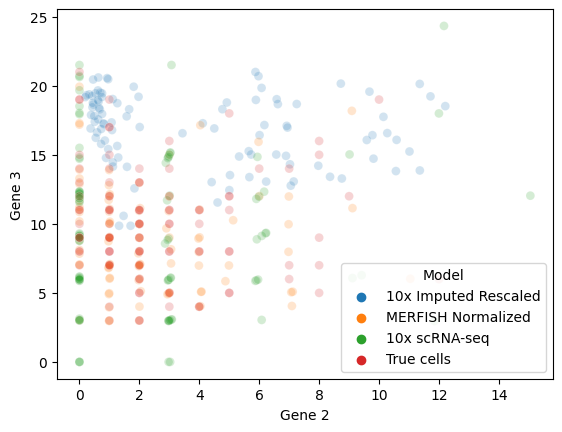
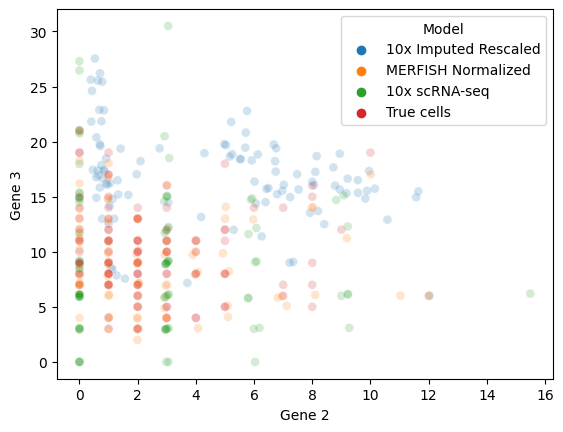
deploy: 69bd616c6c8951e3a58e1448ce6b215aed05c0b5

diff --git a/searchindex.js b/searchindex.js
@@ -1,1 +1,1 @@
-Search.setIndex({docnames:["content","intro","markdown","notebooks"],envversion:{"sphinx.domains.c":2,"sphinx.domains.changeset":1,"sphinx.domains.citation":1,"sphinx.domains.cpp":5,"sphinx.domains.index":1,"sphinx.domains.javascript":2,"sphinx.domains.math":2,"sphinx.domains.python":3,"sphinx.domains.rst":2,"sphinx.domains.std":2,"sphinx.ext.intersphinx":1,"sphinxcontrib.bibtex":9,sphinx:56},filenames:["content.md","intro.md","markdown.md","notebooks.ipynb"],objects:{},objnames:{},objtypes:{},terms:{"0":3,"0s":3,"10":3,"100":3,"1000":3,"10000":3,"1002":3,"10138":3,"1031":3,"10366":3,"104":3,"1056":3,"108":3,"110":3,"116":3,"118":3,"119":3,"121":3,"123":3,"13":3,"133":3,"14":3,"17":3,"1738":3,"18":3,"19":3,"2":1,"2014":2,"21":3,"23":3,"25":3,"257":3,"2574":3,"262":3,"267":3,"2673":3,"2685":3,"2726":3,"2742":3,"278":3,"28":3,"285":3,"2861":3,"29":3,"290":3,"2935":3,"295":3,"296":3,"2970":3,"2974":3,"2982":3,"2987":3,"2998":3,"30":3,"300":3,"3000":3,"3025":3,"3062":3,"307":3,"3073":3,"310":3,"315":3,"32":3,"320":3,"33":3,"37":3,"38":3,"4":3,"40":3,"5":3,"6":3,"7":3,"72":3,"79":3,"792":3,"8":3,"81":3,"85":3,"861":3,"868":3,"869":3,"8921":3,"8969":3,"8970":3,"9":3,"90":3,"900":3,"9098":3,"910":3,"925":3,"9284":3,"933":3,"940":3,"95":3,"954":3,"983":3,"99":3,"9927":3,"9959":3,"9983":3,"case":3,"default":[2,3],"do":[0,2],"function":[2,3],"import":3,"int":3,"new":3,"return":3,"short":0,"true":3,And:1,At:2,For:2,If:2,In:2,It:2,The:2,Then:3,There:[0,2],_:3,abl:3,about:[2,3],accept:2,add:2,after_imput:3,again:2,all:2,all_gen:3,allow:2,alpha:3,alreadi:2,also:[2,3],an:3,analysi:3,ani:2,anndata:3,anoth:[2,3],appear:3,applymap:3,approach:3,ar:[0,3],artificially_sample_cel:3,associ:2,attempt:3,auditori:2,australia:2,axi:3,back:3,basi:3,becom:3,befor:3,before_imput:3,being:[2,3],bernoulli:3,besid:3,bib:2,bibliographi:2,bibtex:2,binomi:3,block:[1,2],blog:3,book:2,both:2,bound:3,box:2,brian:2,brisban:2,broad:3,build:2,built:2,bundl:1,call:2,can:[2,3],captur:3,capture_r:3,cell:2,cell_gener:3,check:1,choic:3,christoph:2,cite:2,claim:3,close:3,code:1,cognit:2,column:3,come:3,command:2,commonmark:2,compar:3,complex:2,comput:2,concat:3,confer:2,content:[1,2],copi:3,cortex:2,could:3,cover:0,creat:3,create_synthetic_cel:3,current:3,d:2,datafram:3,de:2,def:3,defin:2,denois:3,depend:2,despit:3,determin:3,develop:3,df:3,differ:[2,3],directli:2,discov:3,displai:2,dist:3,distribut:3,divid:3,doc:2,document:2,doesn:2,downstream:3,drop:3,dropout:3,due:3,duplic:3,e:1,each:3,ecosystem:2,effect:3,els:3,entir:2,errerron:3,evid:2,exact:3,exampl:2,exist:2,extens:2,extern:3,f:3,fail:3,fals:3,feel:1,few:0,figur:3,fill:3,first:2,flavor:2,fluoresc:3,follow:2,fraction:3,from:3,frontier:2,g:3,gene:3,give:1,given:3,goal:3,ground:3,ha:[2,3],hdhpk14:2,head:3,heer:2,help:3,here:[1,2,3],high:3,hold:3,holdgraf:2,holdgraf_evidence_2014:2,how:[0,1],hue:3,human:2,i:3,identifi:3,ignore_index:3,improv:3,imputed_df:3,imputed_resc:3,imputed_rescaled_df:3,includ:[2,3],indic:3,inform:[2,3],init:2,inplac:3,input:[2,3],insert:2,insid:2,institut:3,intern:2,intro:2,ipynb:2,its:[2,3],jupyt:2,jupytext:2,kdeplot:3,kernel:2,kind:2,knight:2,krishnaswami:3,lab:3,lambda:3,languag:2,later:3,len:3,less:2,like:2,limit:3,line:2,list:3,ll:2,look:2,lost:3,lower:3,m100:3,m100_new:3,m99:3,m99_new:3,mani:[0,2],markedli:2,markup:2,matplotlib:3,max:3,max_ratio:3,mc:1,md:2,meanwhil:3,measur:3,median:3,merfish_df:3,merfish_original_synth:3,merfish_repr:3,merfish_rna_count:3,metadata:2,method:3,metric:3,model:3,molecul:3,more:[1,2,3],moreov:2,mortem:3,most:2,mrna:3,much:3,multipli:3,must:2,my:2,mydirectivenam:2,n:[2,3],n_job:3,name:2,name_list:3,nb:2,nbinom:3,necessari:3,neg:3,neurosci:2,normalize_tot:3,normalized_sum:3,note:[1,2],notebook:2,np:3,number:3,number_cel:3,numpi:3,obscur:3,observ:3,observerd:3,obtain:3,older:3,onc:2,one:2,onli:[2,3],order:3,our:3,out:1,output:[2,3],p:3,page:[1,2],panda:3,paramet:3,paslei:2,path:2,pattern:2,pd:3,percentil:3,perform:3,pipelin:3,plt:3,popular:3,post:3,potenti:3,power:2,pp:3,pre:[2,3],predict:2,previous:3,print:2,probabl:3,process:3,profil:3,promis:3,properli:2,purpos:2,pyplot:3,ramsai:2,random:3,rang:3,rate:3,re:3,ready_for_plot:3,receiv:3,recuper:3,refer:2,regular:2,rel:2,relationship:3,render:2,repres:3,rescale_data:3,resembl:3,rest:2,result:2,rna:3,rna_species_char:3,rna_species_characteristic_numb:3,robert:2,rolenam:2,root:3,row:3,run:2,rv:3,rv_continu:3,rv_discret:3,s:[2,3],same:2,sampl:[1,3],sc:3,scanpi:3,scatterplot:3,sce:3,scipi:3,scnra:3,seaborn:3,section:0,see:[1,2,3],seed:3,sequenc:3,serv:[2,3],set:3,set_axi:3,shape:3,sim_captur:3,similar:[2,3],simpl:3,simplest:2,singl:3,size:3,slight:2,small:[1,2],sn:3,so:[0,2],solver:3,some:2,span:2,speci:3,specif:2,spectrum:3,sphinx:2,sqrt:3,squar:3,stand:2,stat:3,step:3,still:3,store:2,structur:[1,2],success:3,successfulli:3,sum:3,support:3,syntax:2,synth_cel:3,t:[2,3],target:3,target_data:3,target_sum:3,tenx_norm:3,tenx_norm_df:3,tenx_original_synth:3,tenx_raw:3,tenx_repr:3,tenx_rescaled_norm:3,test:3,text:2,thei:[2,3],thi:[0,1,2,3],think:3,those:2,thu:3,tile:3,time:2,tip:0,tissu:3,to_df:3,tool:[2,3],transcript:3,transform:3,true_cells_df:3,truth:3,two:[2,3],univers:3,us:3,util:3,valid:2,valu:3,variat:2,veri:2,version:3,vestigi:3,visual:3,wai:0,we:3,weight:3,welcom:2,wendi:2,when:2,where:3,wherea:2,whether:[2,3],which:[2,3],within:3,without:3,work:2,write:[0,2,3],written:2,x:3,y:3,you:[1,2],your:3},titles:["Content in Jupyter Book","Welcome to your Jupyter Book","Markdown Files","Evaluating MAGIC with Synthetic Dataset"],titleterms:{"1":3,"10x":3,"2":3,"3":3,ad:2,after:3,ar:2,book:[0,1],both:3,cell:3,citat:2,code:2,content:0,count:3,data:3,dataset:3,direct:2,evalu:3,execut:2,file:2,gener:3,imput:3,intro:3,jupyt:[0,1],magic:3,markdown:2,merfish:3,myst:2,normal:3,peek:3,plot:3,rescal:3,result:3,role:2,run:3,scrna:3,seq:3,simul:3,synthet:3,us:2,welcom:1,what:2,your:[1,2]}})
+Search.setIndex({docnames:["content","intro","markdown","notebooks"],envversion:{"sphinx.domains.c":2,"sphinx.domains.changeset":1,"sphinx.domains.citation":1,"sphinx.domains.cpp":5,"sphinx.domains.index":1,"sphinx.domains.javascript":2,"sphinx.domains.math":2,"sphinx.domains.python":3,"sphinx.domains.rst":2,"sphinx.domains.std":2,"sphinx.ext.intersphinx":1,"sphinxcontrib.bibtex":9,sphinx:56},filenames:["content.md","intro.md","markdown.md","notebooks.ipynb"],objects:{},objnames:{},objtypes:{},terms:{"0":3,"0s":3,"10":3,"100":3,"1000":3,"10000":3,"1002":3,"10138":3,"1031":3,"10366":3,"104":3,"1056":3,"115":3,"116":3,"118":3,"121":3,"133":3,"15":3,"17":3,"1738":3,"18":3,"2":1,"2014":2,"21":3,"25":3,"2553":3,"256":3,"26":3,"260":3,"2653":3,"267":3,"2689":3,"2699":3,"27":3,"2776":3,"278":3,"284":3,"2861":3,"29":3,"290":3,"295":3,"296":3,"2963":3,"297":3,"2970":3,"2982":3,"2987":3,"30":3,"300":3,"3000":3,"302":3,"3027":3,"3036":3,"3054":3,"3073":3,"308":3,"3134":3,"32":3,"320":3,"331":3,"35":3,"4":3,"40":3,"43":3,"44":3,"5":3,"6":3,"7":3,"70":3,"76":3,"8":3,"81":3,"840":3,"85":3,"852":3,"86":3,"891":3,"8914":3,"8923":3,"8987":3,"899":3,"9":3,"90":3,"903":3,"911":3,"917":3,"918":3,"9188":3,"9325":3,"940":3,"945":3,"96":3,"963":3,"983":3,"99":3,"9927":3,"9959":3,"9983":3,"case":3,"default":[2,3],"do":[0,2],"function":[2,3],"import":3,"int":3,"new":3,"return":3,"short":0,"true":3,And:1,At:2,For:2,If:2,In:2,It:2,The:2,Then:3,There:[0,2],_:3,abl:3,about:[2,3],accept:2,add:2,after_imput:3,again:2,all:2,all_gen:3,allow:2,alpha:3,alreadi:2,also:[2,3],an:3,analysi:3,ani:2,anndata:3,anoth:[2,3],appear:3,applymap:3,approach:3,ar:[0,3],artificially_sample_cel:3,associ:2,attempt:3,auditori:2,australia:2,axi:3,back:3,basi:3,becom:3,befor:3,before_imput:3,being:[2,3],bernoulli:3,besid:3,bib:2,bibliographi:2,bibtex:2,binomi:3,block:[1,2],blog:3,book:2,both:2,bound:3,box:2,brian:2,brisban:2,broad:3,build:2,built:2,bundl:1,call:2,can:[2,3],captur:3,capture_r:3,cell:2,cell_gener:3,check:1,choic:3,christoph:2,cite:2,claim:3,close:3,code:1,cognit:2,column:3,come:3,command:2,commonmark:2,compar:3,complex:2,comput:2,concat:3,confer:2,content:[1,2],copi:3,cortex:2,could:3,cover:0,creat:3,create_synthetic_cel:3,current:3,d:2,datafram:3,de:2,def:3,defin:2,denois:3,depend:2,despit:3,determin:3,develop:3,df:3,differ:[2,3],directli:2,discov:3,displai:2,dist:3,distribut:3,divid:3,doc:2,document:2,doesn:2,downstream:3,drop:3,dropout:3,due:3,duplic:3,e:1,each:3,ecosystem:2,effect:3,els:3,entir:2,errerron:3,evid:2,exact:3,exampl:2,exist:2,extens:2,extern:3,f:3,fail:3,fals:3,feel:1,few:0,figur:3,fill:3,first:2,flavor:2,fluoresc:3,follow:2,fraction:3,from:3,frontier:2,g:3,gene:3,give:1,given:3,goal:3,ground:3,ha:[2,3],hdhpk14:2,head:3,heer:2,help:3,here:[1,2,3],high:3,hold:3,holdgraf:2,holdgraf_evidence_2014:2,how:[0,1],hue:3,human:2,i:3,identifi:3,ignore_index:3,improv:3,imputed_df:3,imputed_resc:3,imputed_rescaled_df:3,includ:[2,3],indic:3,inform:[2,3],init:2,inplac:3,input:[2,3],insert:2,insid:2,institut:3,intern:2,intro:2,ipynb:2,its:[2,3],jupyt:2,jupytext:2,kdeplot:3,kernel:2,kind:2,knight:2,krishnaswami:3,lab:3,lambda:3,languag:2,later:3,len:3,less:2,like:2,limit:3,line:2,list:3,ll:2,look:2,lost:3,lower:3,m100:3,m100_new:3,m99:3,m99_new:3,mani:[0,2],markedli:2,markup:2,matplotlib:3,max:3,max_ratio:3,mc:1,md:2,meanwhil:3,measur:3,median:3,merfish_df:3,merfish_original_synth:3,merfish_repr:3,merfish_rna_count:3,metadata:2,method:3,metric:3,model:3,molecul:3,more:[1,2,3],moreov:2,mortem:3,most:2,mrna:3,much:3,multipli:3,must:2,my:2,mydirectivenam:2,n:[2,3],n_job:3,name:2,name_list:3,nb:2,nbinom:3,necessari:3,neg:3,neurosci:2,normalize_tot:3,normalized_sum:3,note:[1,2],notebook:2,np:3,number:3,number_cel:3,numpi:3,obscur:3,observ:3,observerd:3,obtain:3,older:3,onc:2,one:2,onli:[2,3],order:3,our:3,out:1,output:[2,3],p:3,page:[1,2],panda:3,paramet:3,paslei:2,path:2,pattern:2,pd:3,percentil:3,perform:3,pipelin:3,plt:3,popular:3,post:3,potenti:3,power:2,pp:3,pre:[2,3],predict:2,previous:3,print:2,probabl:3,process:3,profil:3,promis:3,properli:2,purpos:2,pyplot:3,ramsai:2,random:3,rang:3,rate:3,re:3,ready_for_plot:3,receiv:3,recuper:3,refer:2,regular:2,rel:2,relationship:3,render:2,repres:3,rescale_data:3,resembl:3,rest:2,result:2,rna:3,rna_species_char:3,rna_species_characteristic_numb:3,robert:2,rolenam:2,root:3,row:3,run:2,rv:3,rv_continu:3,rv_discret:3,s:[2,3],same:2,sampl:[1,3],sc:3,scanpi:3,scatterplot:3,sce:3,scipi:3,scnra:3,seaborn:3,section:0,see:[1,2,3],seed:3,sequenc:3,serv:[2,3],set:3,set_axi:3,shape:3,sim_captur:3,similar:[2,3],simpl:3,simplest:2,singl:3,size:3,slight:2,small:[1,2],sn:3,so:[0,2],solver:3,some:2,span:2,speci:3,specif:2,spectrum:3,sphinx:2,sqrt:3,squar:3,stand:2,stat:3,step:3,still:3,store:2,structur:[1,2],success:3,successfulli:3,sum:3,support:3,syntax:2,synth_cel:3,t:[2,3],target:3,target_data:3,target_sum:3,tenx_norm:3,tenx_norm_df:3,tenx_original_synth:3,tenx_raw:3,tenx_repr:3,tenx_rescaled_norm:3,test:3,text:2,thei:[2,3],thi:[0,1,2,3],think:3,those:2,thu:3,tile:3,time:2,tip:0,tissu:3,to_df:3,tool:[2,3],transcript:3,transform:3,true_cells_df:3,truth:3,two:[2,3],univers:3,us:3,util:3,valid:2,valu:3,variat:2,veri:2,version:3,vestigi:3,visual:3,wai:0,we:3,weight:3,welcom:2,wendi:2,when:2,where:3,wherea:2,whether:[2,3],which:[2,3],within:3,without:3,work:2,write:[0,2,3],written:2,x:3,y:3,you:[1,2],your:3},titles:["Content in Jupyter Book","Welcome to your Jupyter Book","Markdown Files","Evaluating MAGIC with Synthetic Dataset"],titleterms:{"1":3,"10x":3,"2":3,"3":3,ad:2,after:3,ar:2,book:[0,1],both:3,cell:3,citat:2,code:2,content:0,count:3,data:3,dataset:3,direct:2,evalu:3,execut:2,file:2,gener:3,imput:3,intro:3,jupyt:[0,1],magic:3,markdown:2,merfish:3,myst:2,normal:3,peek:3,plot:3,rescal:3,result:3,role:2,run:3,scrna:3,seq:3,simul:3,synthet:3,us:2,welcom:1,what:2,your:[1,2]}})

diff --git a/notebooks.html b/notebooks.html
@@ -6,7 +6,7 @@
     <meta charset="utf-8" />
     <meta name="viewport" content="width=device-width, initial-scale=1.0" /><meta name="generator" content="Docutils 0.17.1: http://docutils.sourceforge.net/" />
 
-    <title>Evaluating MAGIC with Synthetic Dataset &#8212; blog</title>
+    <title>Evaluating MAGIC with Synthetic Dataset &#8212; Academic Posts</title>
     
   <!-- Loaded before other Sphinx assets -->
   <link href="_static/styles/theme.css?digest=1999514e3f237ded88cf" rel="stylesheet">
@@ -96,7 +96,7 @@ const thebe_selector_output = ".output, .cell_output"
       <img src="_static/logo.png" class="logo" alt="logo">
       
       
-      <h1 class="site-logo" id="site-title">blog</h1>
+      <h1 class="site-logo" id="site-title">Academic Posts</h1>
       
     </a>
 </div><form class="bd-search d-flex align-items-center" action="search.html" method="get">
@@ -782,13 +782,13 @@ tenx_original_synth[&quot;Model&quot;] = &quot;10x scRNA-seq&quot;
       <th>0</th>
       <td>1</td>
       <td>3</td>
-      <td>5</td>
-      <td>23</td>
-      <td>108</td>
-      <td>267</td>
-      <td>861</td>
-      <td>2726</td>
-      <td>9098</td>
+      <td>7</td>
+      <td>26</td>
+      <td>104</td>
+      <td>260</td>
+      <td>852</td>
+      <td>2699</td>
+      <td>9188</td>
       <td>MERFISH</td>
     </tr>
     <tr>
@@ -796,25 +796,25 @@ tenx_original_synth[&quot;Model&quot;] = &quot;10x scRNA-seq&quot;
       <td>2</td>
       <td>3</td>
       <td>5</td>
-      <td>19</td>
+      <td>21</td>
       <td>104</td>
-      <td>262</td>
-      <td>910</td>
-      <td>2673</td>
-      <td>9284</td>
+      <td>267</td>
+      <td>911</td>
+      <td>2689</td>
+      <td>9325</td>
       <td>MERFISH</td>
     </tr>
     <tr>
       <th>2</th>
-      <td>6</td>
+      <td>7</td>
       <td>1</td>
-      <td>14</td>
-      <td>18</td>
-      <td>119</td>
-      <td>290</td>
-      <td>925</td>
-      <td>2742</td>
-      <td>8970</td>
+      <td>15</td>
+      <td>15</td>
+      <td>115</td>
+      <td>297</td>
+      <td>918</td>
+      <td>2776</td>
+      <td>8987</td>
       <td>MERFISH</td>
     </tr>
     <tr>
@@ -822,25 +822,25 @@ tenx_original_synth[&quot;Model&quot;] = &quot;10x scRNA-seq&quot;
       <td>0</td>
       <td>2</td>
       <td>7</td>
-      <td>28</td>
-      <td>110</td>
-      <td>290</td>
-      <td>900</td>
-      <td>2574</td>
-      <td>8921</td>
+      <td>29</td>
+      <td>99</td>
+      <td>278</td>
+      <td>891</td>
+      <td>2553</td>
+      <td>8914</td>
       <td>MERFISH</td>
     </tr>
     <tr>
       <th>4</th>
       <td>6</td>
-      <td>2</td>
+      <td>1</td>
       <td>7</td>
-      <td>25</td>
-      <td>79</td>
-      <td>257</td>
-      <td>954</td>
-      <td>2685</td>
-      <td>8969</td>
+      <td>27</td>
+      <td>76</td>
+      <td>256</td>
+      <td>963</td>
+      <td>2653</td>
+      <td>8923</td>
       <td>MERFISH</td>
     </tr>
   </tbody>
@@ -892,65 +892,65 @@ tenx_original_synth[&quot;Model&quot;] = &quot;10x scRNA-seq&quot;
       <th>0</th>
       <td>0</td>
       <td>1</td>
-      <td>2</td>
+      <td>3</td>
       <td>6</td>
-      <td>33</td>
-      <td>72</td>
-      <td>278</td>
-      <td>933</td>
-      <td>3025</td>
+      <td>44</td>
+      <td>70</td>
+      <td>302</td>
+      <td>945</td>
+      <td>3036</td>
       <td>10x scRNA-seq</td>
     </tr>
     <tr>
       <th>1</th>
+      <td>0</td>
       <td>1</td>
-      <td>1</td>
-      <td>1</td>
-      <td>8</td>
-      <td>38</td>
-      <td>81</td>
-      <td>307</td>
-      <td>868</td>
-      <td>3062</td>
+      <td>2</td>
+      <td>2</td>
+      <td>35</td>
+      <td>86</td>
+      <td>295</td>
+      <td>899</td>
+      <td>3134</td>
       <td>10x scRNA-seq</td>
     </tr>
     <tr>
       <th>2</th>
-      <td>2</td>
-      <td>0</td>
-      <td>7</td>
+      <td>4</td>
+      <td>1</td>
       <td>5</td>
-      <td>33</td>
-      <td>95</td>
-      <td>315</td>
-      <td>933</td>
-      <td>2998</td>
+      <td>5</td>
+      <td>43</td>
+      <td>96</td>
+      <td>331</td>
+      <td>917</td>
+      <td>3054</td>
       <td>10x scRNA-seq</td>
     </tr>
     <tr>
       <th>3</th>
       <td>0</td>
-      <td>2</td>
+      <td>1</td>
       <td>3</td>
-      <td>6</td>
-      <td>37</td>
-      <td>123</td>
-      <td>285</td>
-      <td>792</td>
-      <td>2935</td>
+      <td>8</td>
+      <td>40</td>
+      <td>100</td>
+      <td>284</td>
+      <td>840</td>
+      <td>2963</td>
       <td>10x scRNA-seq</td>
     </tr>
     <tr>
       <th>4</th>
-      <td>4</td>
+      <td>1</td>
       <td>1</td>
       <td>0</td>
-      <td>13</td>
-      <td>29</td>
-      <td>90</td>
-      <td>310</td>
-      <td>869</td>
-      <td>2974</td>
+      <td>9</td>
+      <td>25</td>
+      <td>81</td>
+      <td>308</td>
+      <td>903</td>
+      <td>3027</td>
       <td>10x scRNA-seq</td>
     </tr>
   </tbody>

diff --git a/intro.html b/intro.html
@@ -6,7 +6,7 @@
     <meta charset="utf-8" />
     <meta name="viewport" content="width=device-width, initial-scale=1.0" /><meta name="generator" content="Docutils 0.17.1: http://docutils.sourceforge.net/" />
 
-    <title>Welcome to your Jupyter Book &#8212; blog</title>
+    <title>Welcome to your Jupyter Book &#8212; Academic Posts</title>
     
   <!-- Loaded before other Sphinx assets -->
   <link href="_static/styles/theme.css?digest=1999514e3f237ded88cf" rel="stylesheet">
@@ -96,7 +96,7 @@ const thebe_selector_output = ".output, .cell_output"
       <img src="_static/logo.png" class="logo" alt="logo">
       
       
-      <h1 class="site-logo" id="site-title">blog</h1>
+      <h1 class="site-logo" id="site-title">Academic Posts</h1>
       
     </a>
 </div><form class="bd-search d-flex align-items-center" action="search.html" method="get">

diff --git a/content.html b/content.html
@@ -6,7 +6,7 @@
     <meta charset="utf-8" />
     <meta name="viewport" content="width=device-width, initial-scale=1.0" /><meta name="generator" content="Docutils 0.17.1: http://docutils.sourceforge.net/" />
 
-    <title>Content in Jupyter Book &#8212; blog</title>
+    <title>Content in Jupyter Book &#8212; Academic Posts</title>
     
   <!-- Loaded before other Sphinx assets -->
   <link href="_static/styles/theme.css?digest=1999514e3f237ded88cf" rel="stylesheet">
@@ -95,7 +95,7 @@ const thebe_selector_output = ".output, .cell_output"
       <img src="_static/logo.png" class="logo" alt="logo">
       
       
-      <h1 class="site-logo" id="site-title">blog</h1>
+      <h1 class="site-logo" id="site-title">Academic Posts</h1>
       
     </a>
 </div><form class="bd-search d-flex align-items-center" action="search.html" method="get">

diff --git a/markdown.html b/markdown.html
@@ -6,7 +6,7 @@
     <meta charset="utf-8" />
     <meta name="viewport" content="width=device-width, initial-scale=1.0" /><meta name="generator" content="Docutils 0.17.1: http://docutils.sourceforge.net/" />
 
-    <title>Markdown Files &#8212; blog</title>
+    <title>Markdown Files &#8212; Academic Posts</title>
     
   <!-- Loaded before other Sphinx assets -->
   <link href="_static/styles/theme.css?digest=1999514e3f237ded88cf" rel="stylesheet">
@@ -97,7 +97,7 @@ const thebe_selector_output = ".output, .cell_output"
       <img src="_static/logo.png" class="logo" alt="logo">
       
       
-      <h1 class="site-logo" id="site-title">blog</h1>
+      <h1 class="site-logo" id="site-title">Academic Posts</h1>
       
     </a>
 </div><form class="bd-search d-flex align-items-center" action="search.html" method="get">

diff --git a/genindex.html b/genindex.html
@@ -5,7 +5,7 @@
   <head>
     <meta charset="utf-8" />
     <meta name="viewport" content="width=device-width, initial-scale=1.0" />
-    <title>Index &#8212; blog</title>
+    <title>Index &#8212; Academic Posts</title>
     
   <!-- Loaded before other Sphinx assets -->
   <link href="_static/styles/theme.css?digest=1999514e3f237ded88cf" rel="stylesheet">
@@ -94,7 +94,7 @@ const thebe_selector_output = ".output, .cell_output"
       <img src="_static/logo.png" class="logo" alt="logo">
       
       
-      <h1 class="site-logo" id="site-title">blog</h1>
+      <h1 class="site-logo" id="site-title">Academic Posts</h1>
       
     </a>
 </div><form class="bd-search d-flex align-items-center" action="search.html" method="get">

diff --git a/search.html b/search.html
@@ -5,7 +5,7 @@
   <head>
     <meta charset="utf-8" />
     <meta name="viewport" content="width=device-width, initial-scale=1.0" />
-    <title>Search &#8212; blog</title>
+    <title>Search &#8212; Academic Posts</title>
     
   <!-- Loaded before other Sphinx assets -->
   <link href="_static/styles/theme.css?digest=1999514e3f237ded88cf" rel="stylesheet">
@@ -100,7 +100,7 @@ const thebe_selector_output = ".output, .cell_output"
       <img src="_static/logo.png" class="logo" alt="logo">
       
       
-      <h1 class="site-logo" id="site-title">blog</h1>
+      <h1 class="site-logo" id="site-title">Academic Posts</h1>
       
     </a>
 </div><form class="bd-search d-flex align-items-center" action="#" method="get">
